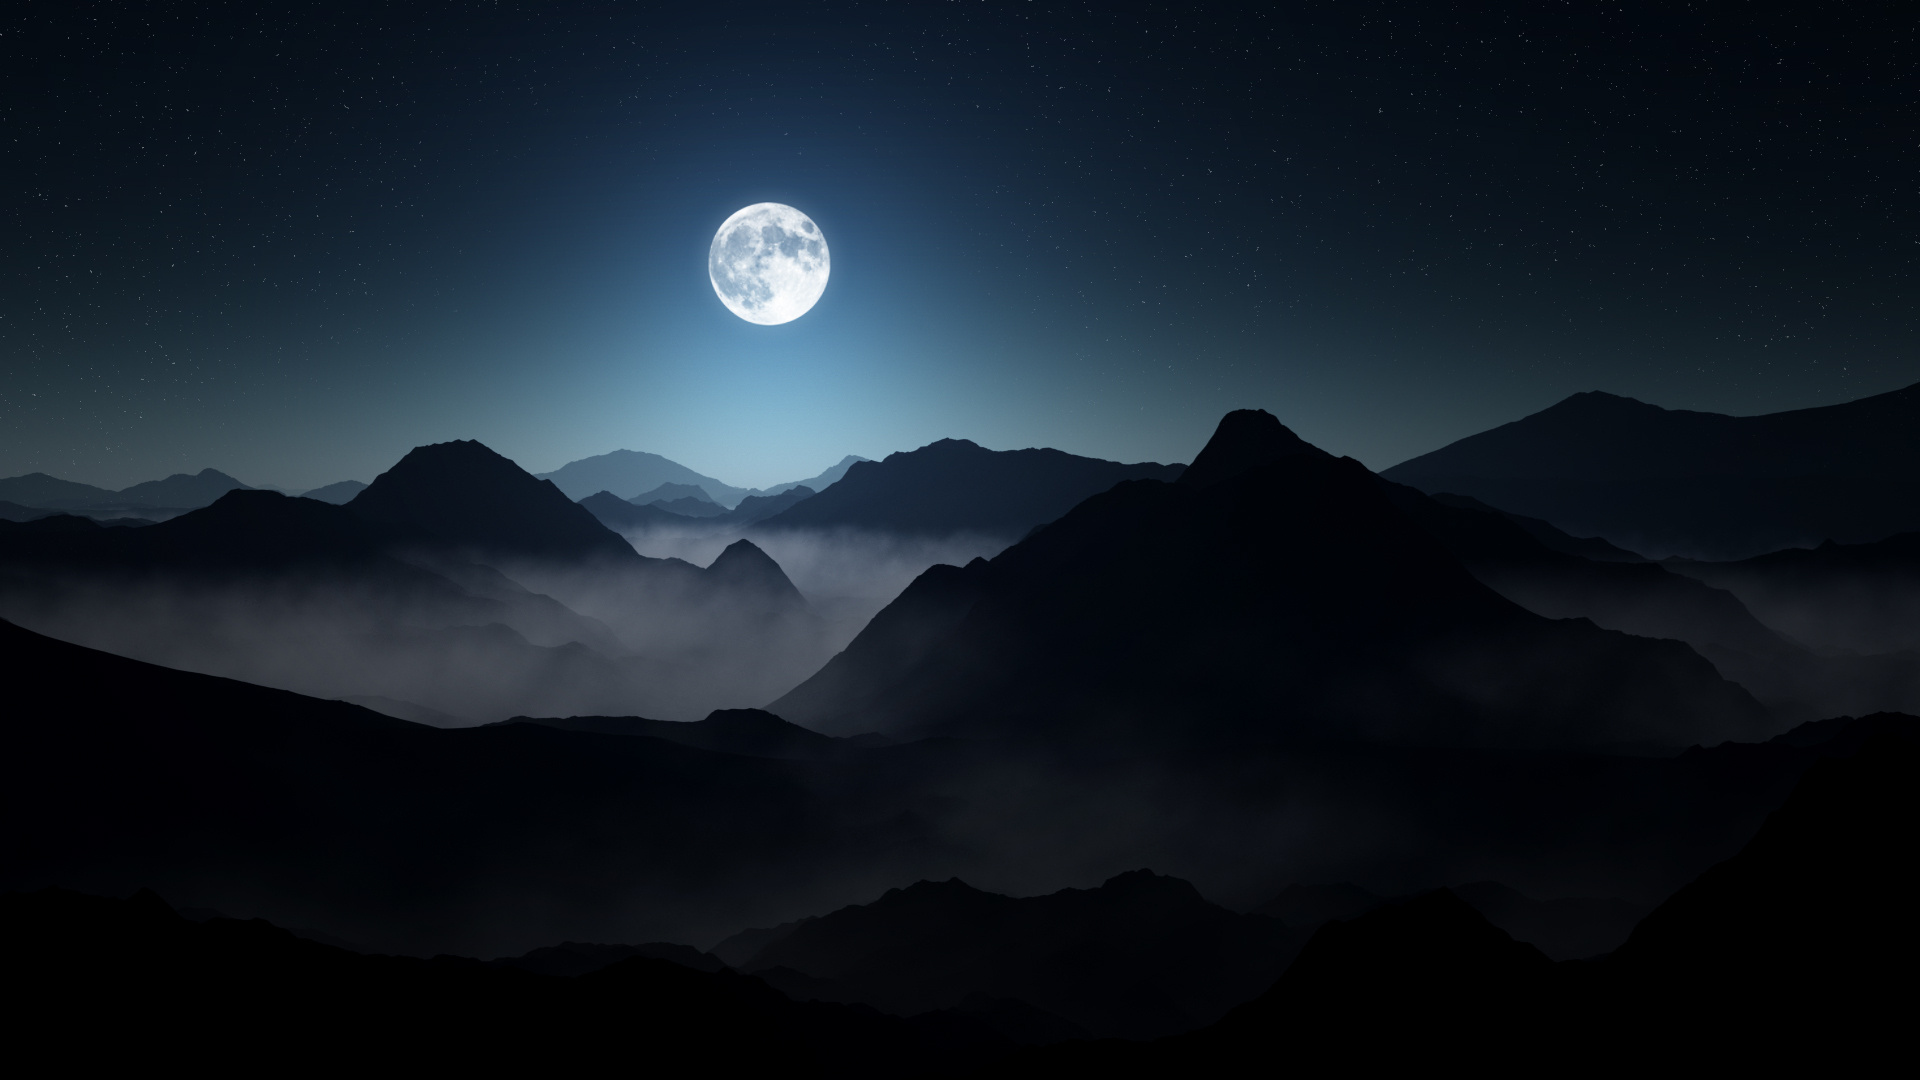
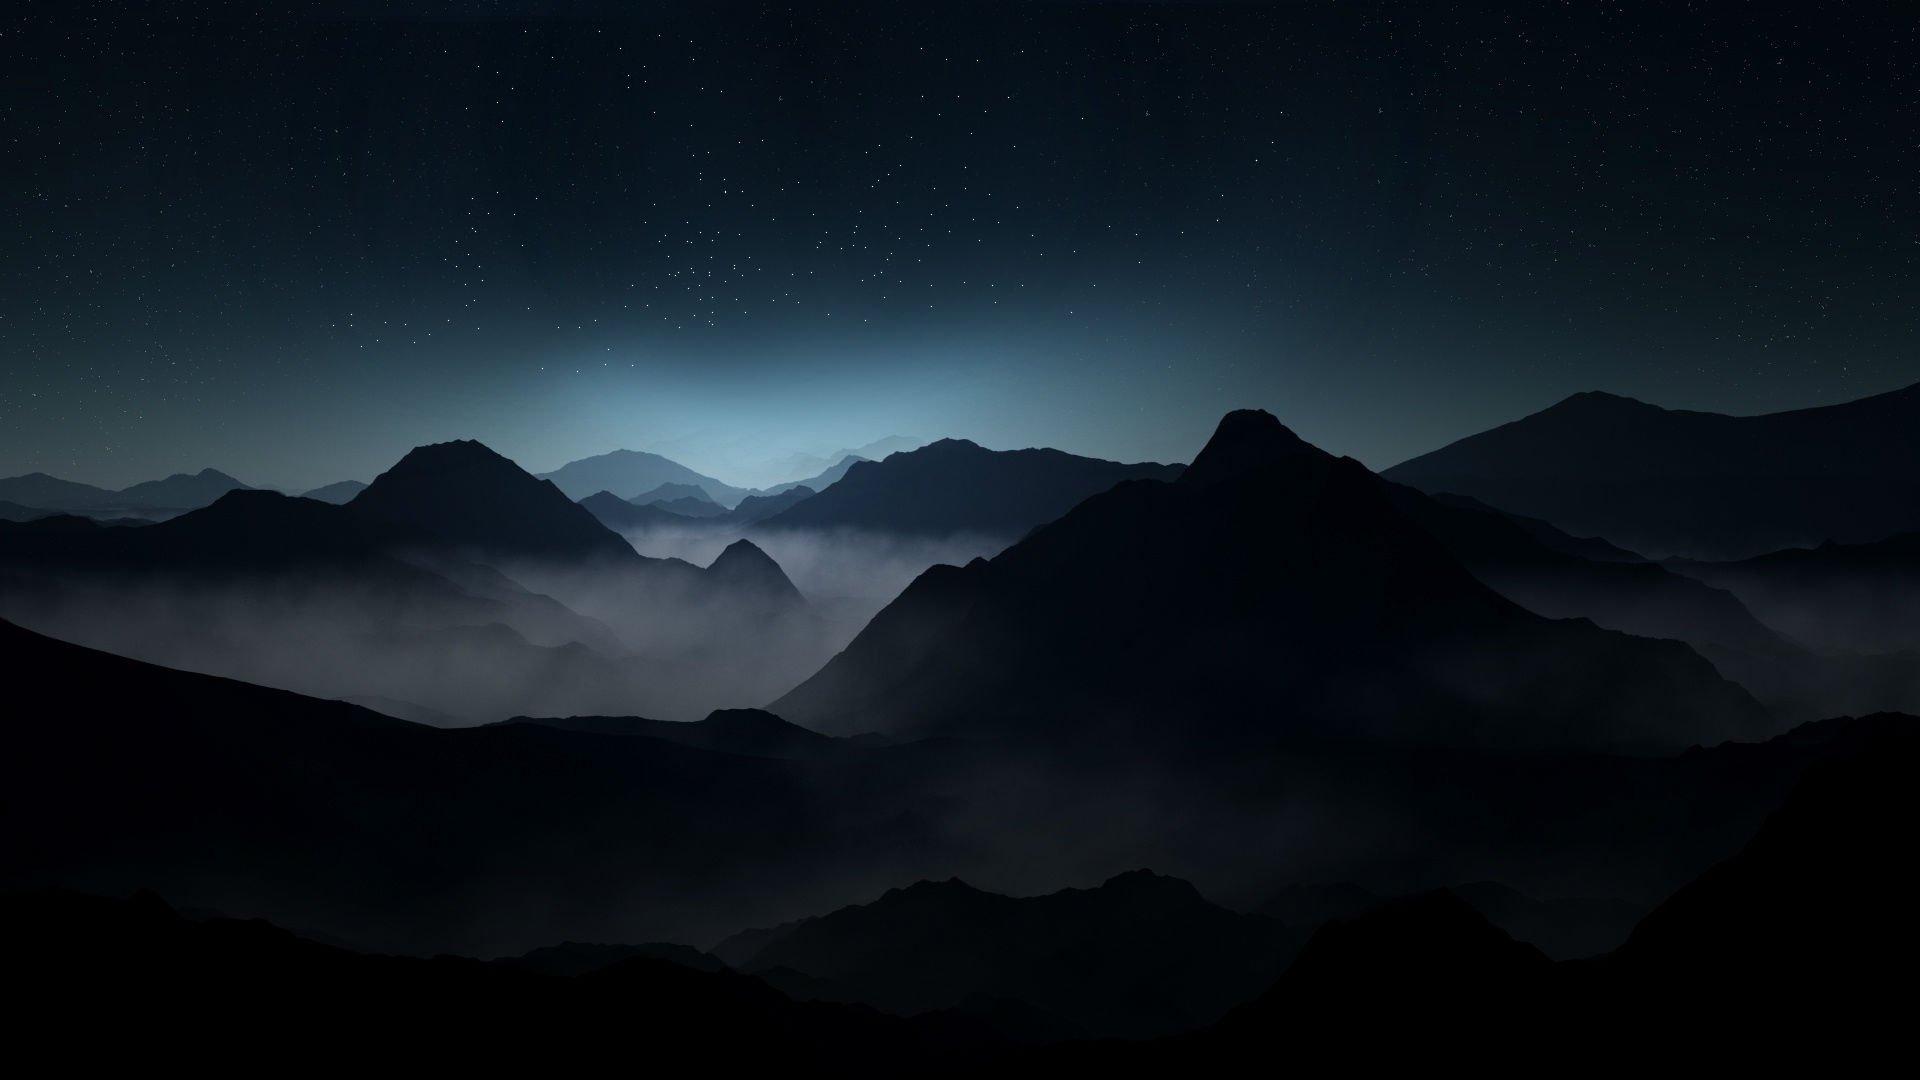
feat: add email and pgp buttons
The site features two extra buttons
for email and pgp and two hidden boxes
that contain the email and pgp values.
These boxes are initialy hidden and are
called when their corresponding button
is pressed.

Change font(Roboto), cover(no Moon)
and buttons size.

Changed region(s): [[0.2188, 0.0, 0.5625, 0.3972]]

diff --git a/css/styles.css b/css/styles.css
@@ -1,14 +1,34 @@
 ---
 ---
-/*
- * Globals
- */
-
+/* Globals */
 /* Links */
 a,
+a:active,
 a:focus,
 a:hover {
   color: #fff;
+}
+/* Size of contact buttons */
+.btn1 {
+  height: 50px;
+}
+.btn2 {
+  height: 50px;
+  width: 130px;
+}
+.btn a,
+.btn a:active,
+.btn a:focus,
+.btn a:hover {
+	color: #69b7f6;
+	text-decoration: none;
+}
+.btn-group .btn-primary,
+.btn-group .btn-primary:active,
+.btn-group .btn-primary:focus,
+.btn-group .btn-primary:hover {
+	border-radius: 0;
+	color: #69b7f6;
 }
 .cover-heading, .lead {
 	color: #fff;
@@ -20,11 +40,20 @@ a:hover {
   color: #333;
   text-shadow: none; /* Prevent inheritence from `body` */
   background-color: #fff;
-  border: 1px solid #fff;
+  border-style: solid;
+  border-color: white;
 }
-/*
- * Base structure
- */
+/* Email & PGP */
+.email,
+.pgp {
+  background-color: rgba(255,255,255,0.2);
+  color: #fff;
+  height: 50px;
+  line-height: 50px;
+  border-bottom: 5px solid white;
+  /*word-wrap: break-word;*/
+}
+/* Base structure */
 html,
 body {
   height: 100%;
@@ -40,27 +69,29 @@ body {
   width: 100%;
   height: 100%; /* For at least Firefox */
   min-height: 100%;
+  font-family: 'Roboto', sans-serif;
 }
 .site-wrapper-inner {
-  display: table-cell;
+  /*display: table-cell;*/
   vertical-align: top;
+  margin-top: 18%;
 }
 .cover-container {
   margin-right: auto;
   margin-left: auto;
 }
 /* Padding for spacing */
+.one {
+  margin-top: 2%;
+}
 .inner {
   padding: 30px;
 }
-/*
- * Header
- */
+/* Header */
 .masthead-brand {
   margin-top: 10px;
   margin-bottom: 10px;
 }
-
 .masthead-nav > li {
   display: inline-block;
 }
@@ -97,9 +128,7 @@ body {
     float: right;
   }
 }
-/*
- * Cover
- */
+/* Cover */
 .cover {
   padding: 0 20px;
 }
@@ -107,15 +136,11 @@ body {
   padding: 10px 20px;
   font-weight: bold;
 }
-/*
- * Footer
- */
+/* Footer */
 .mastfoot {
   color: #fff; /* IE8 proofing */
 }
-/*
- * Affix and center
- */
+/* Affix and center */
 @media (min-width: 768px) {
   /* Pull out the header and footer */
   .masthead {

diff --git a/index.html b/index.html
@@ -2,12 +2,22 @@
 layout: default
 ---
 
-<div class="inner cover">
+<div class="inner cover one">
   <h1 class="cover-heading">{{ site.title }}</h1>
   <p class="lead">{{ site.description }}</p>
   <div class="btn-group" role="group" aria-label="...">
-    <button type="button" class="btn btn-primary">{% include icon-twitter.html username=site.twitter_username %}</button>
-    <button type="button" class="btn btn-primary">{% include icon-github.html username=site.github_username %}</button>
-    <button type="button" class="btn btn-primary">{% include icon-linkedin.html username=site.linkedin_username %}</button>
+    <button type="button" class="btn btn-primary btn1">{% include icon-twitter.html username=site.twitter_username %}</button>
+    <button type="button" class="btn btn-primary btn1">{% include icon-github.html username=site.github_username %}</button>
+    <button type="button" class="btn btn-primary btn1">{% include icon-linkedin.html username=site.linkedin_username %}</button>
   </div>
+</div>
+<div class="inner cover one">
+  <div class="btn-group" role="group" aria-label="...">
+    <button type="button" class="btn btn-primary btn2" id="email"><i class="fa fa-envelope"></i> e-mail</button>
+    <button type="button" class="btn btn-primary btn2" id="pgp"><i class="fa fa-key"></i> PGP Key</button>
+  </div>
+</div>
+<div class="inner cover three">
+  <div class="email"><i class="fa fa-envelope"></i> kalpetros@gmail.com</div>
+  <div class="pgp"><i class="fa fa-key"></i> asasdlajf9u90jr0192uh09hy09fh023h0h8901f9h9f812</div>
 </div>

diff --git a/_includes/head.html b/_includes/head.html
@@ -10,9 +10,10 @@
   <link rel="canonical" href="{{ page.url | replace:'index.html','' | prepend: site.baseurl | prepend: site.url }}">
   <link rel="alternate" type="application/rss+xml" title="{{ site.title }}" href="{{ "/feed.xml" | prepend: site.baseurl | prepend: site.url }}">
   
+  <link href='https://fonts.googleapis.com/css?family=Roboto:400,100' rel='stylesheet' type='text/css'>
   <link rel="shortcut icon" type="image/png" href="/img/favicon.ico"/>
   <link rel="stylesheet" href="https://maxcdn.bootstrapcdn.com/font-awesome/4.5.0/css/font-awesome.min.css">
-  <link rel="stylesheet" href="{{ "/css/index.css" | prepend: site.baseurl }}">
+  <link rel="stylesheet" href="{{ "/css/styles.css" | prepend: site.baseurl }}">
   <link rel="stylesheet" href="bower_components/bootstrap/dist/css/bootstrap.min.css">
   <script src="bower_components/jquery/dist/jquery.min.js"></script>
   <script src="bower_components/bootstrap/dist/js/bootstrap.min.js"></script>

diff --git a/js/toggle.js b/js/toggle.js
@@ -1,0 +1,24 @@
+// Hide email & pgp
+$( ".email" ).hide();
+$( ".pgp" ).hide();
+
+// Show email on button click
+$("#email").click(function(){
+  $(".email").slideDown( "slow", function() {
+    $(".email").show();
+  });
+  // Hide email after 5 seconds
+  $(document).ready( function() {
+    $('.email').delay(5000).fadeOut();
+  });
+});
+// Show pgp on button click
+$("#pgp").click(function(){
+  $(".pgp").slideDown( "slow", function() {
+    $(".pgp").show();
+  });
+  // Hide pgp after 5 seconds
+  $(document).ready( function() {
+    $('.pgp').delay(5000).fadeOut();
+  });
+});

diff --git a/_includes/footer.html b/_includes/footer.html
@@ -1,5 +1,5 @@
 <div class="mastfoot">
   <div class="inner">
-    <p>&copy; 2016 <a href="http://petroskal.com">petroskal.com</a></p>
+    <p><a href="http://petroskal.com"><img src="/img/favicon.ico"></a></p>
   </div>
 </div>

diff --git a/_layouts/default.html b/_layouts/default.html
@@ -19,5 +19,5 @@
     </div>
 
   </body>
-
+  <script src="js/toggle.js"></script>
 </html>
